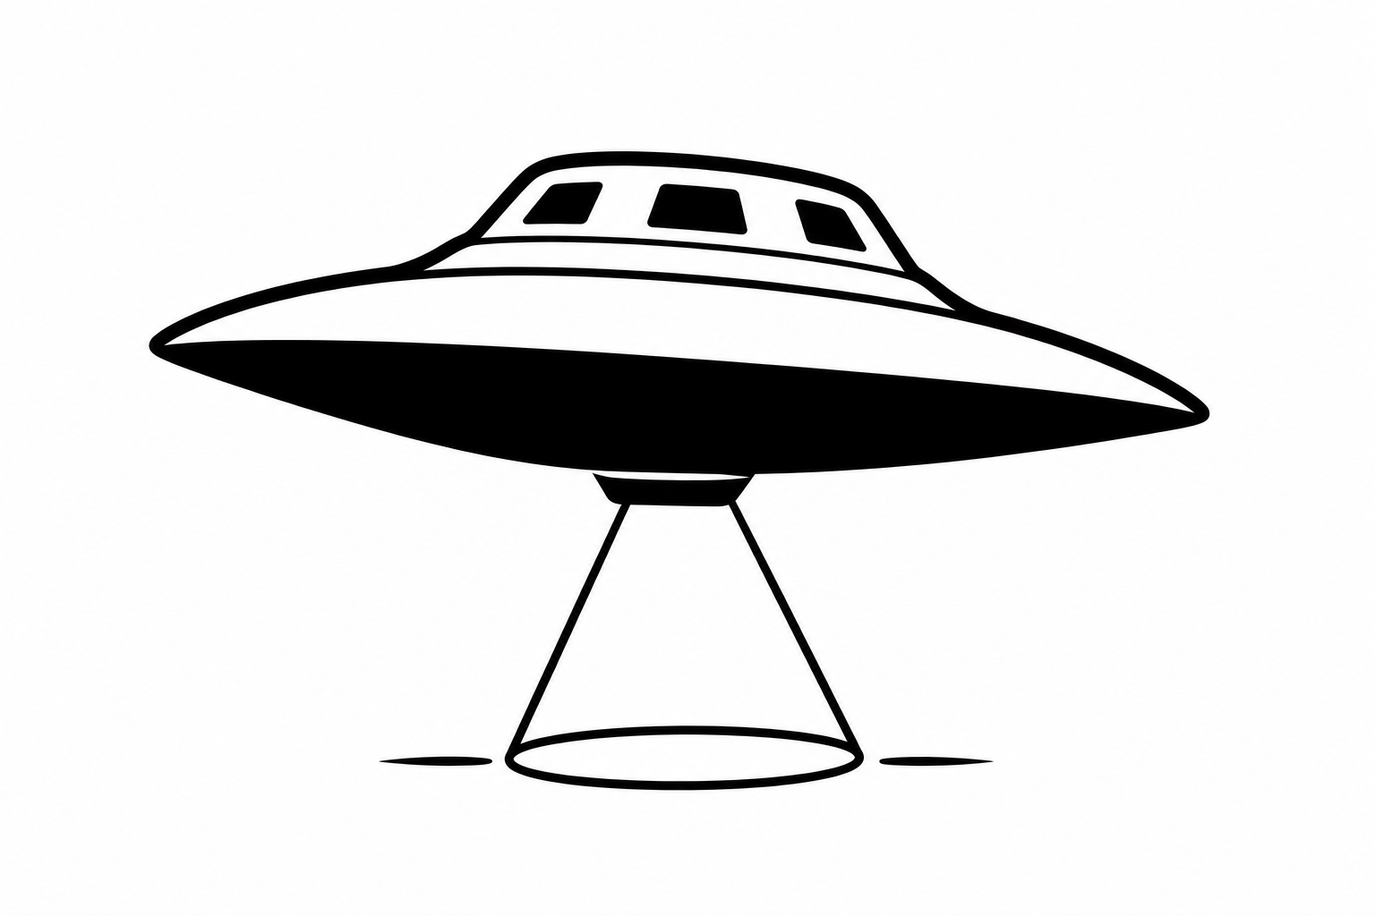
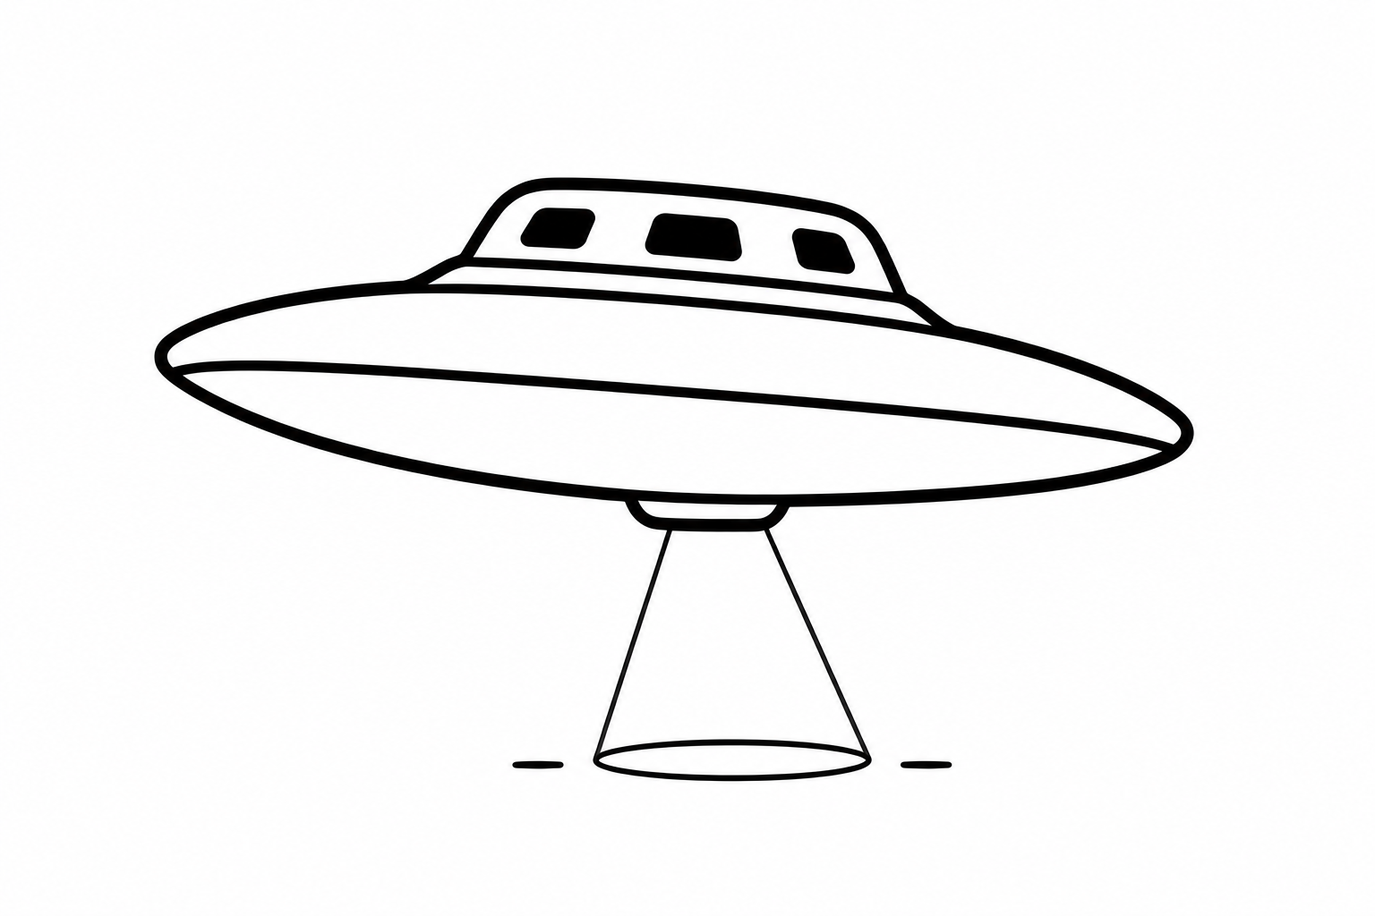
Lighten empty-state illustration with softer contours

Changed region(s): [[0.0938, 0.1562, 0.875, 0.875]]

diff --git a/uap-lab/static/label-videos.html b/uap-lab/static/label-videos.html
@@ -1,6 +1,6 @@
 <!doctype html><html lang="en"><head><meta charset="utf-8"><meta name="viewport" content="width=device-width,initial-scale=1"><title>Review detections · Field Station</title><link rel="stylesheet" href="/style.css"><link rel="stylesheet" href="/app-shell.css?v=10"><script src="/app-shell.js?v=12" defer></script><style>
 main{max-width:1500px;margin:auto;padding:12px 24px}.queue-toolbar{display:flex;justify-content:space-between;align-items:center;gap:12px;margin:0 0 12px;font-size:13px}.queue-toolbar p{margin:0;color:var(--muted)}#detectionQueue{columns:260px;column-gap:0;line-height:0}.detection-card{position:relative;break-inside:avoid;display:block;overflow:hidden;margin:0;background:#05090c}.detection-image{display:block;width:100%;padding:0;border:0;border-radius:0;background:transparent}.detection-image img{display:block;width:100%;height:auto;aspect-ratio:auto 1 / 1;image-rendering:auto}.category-actions{position:absolute;inset:0;display:flex;flex-direction:column;justify-content:flex-start;background:linear-gradient(#10182033,#101820f5 45%);padding:10px;line-height:1.3;opacity:0;visibility:hidden;transition:opacity .12s;overflow:auto}.detection-card:hover .category-actions,.detection-card:focus-within .category-actions,.detection-card.controls-open .category-actions{opacity:1;visibility:visible}.category-grid{flex-shrink:0;display:grid;grid-template-columns:repeat(3,minmax(0,1fr));gap:4px}.category-grid button{font:600 11px var(--app-font);padding:4px 3px;margin:0;border:1px solid #71878c;border-radius:4px;background:#15232ce8;color:#fff;min-height:28px;overflow-wrap:anywhere}.category-grid button:hover,.category-grid button:focus-visible{background:#315748;outline:2px solid #b8f4dd;outline-offset:0}.review-actions{display:flex;align-items:center;gap:8px;margin-top:8px;font-size:12px}.review-actions a,.review-actions button{flex:1;text-align:center;font:inherit;padding:4px 4px;background:#101820;color:#fff;border:1px solid #71878c;border-radius:4px;text-decoration:none}.queue-error{color:#ffb6aa;font-size:12px;line-height:1.4;margin:6px 0 0}.queue-toast{position:fixed;bottom:20px;left:50%;transform:translateX(-50%);z-index:1001;background:#15232c;color:#fff;border:1px solid #71878c;border-radius:8px;padding:12px 16px;display:flex;gap:16px;align-items:center;max-width:94vw;line-height:1.4}.queue-toast[hidden]{display:none}#moreDetections{margin:16px 0}#queueFrame{width:min(1200px,96vw);background:#101820;color:#fff;border:1px solid #71878c;border-radius:8px;max-height:92dvh}#queueFrame img{max-width:100%;max-height:70dvh;object-fit:contain;display:block;margin:12px auto}#queueFrame::backdrop{background:#000b}.frame-actions{display:flex;justify-content:space-between;gap:16px;align-items:center}@media(max-width:600px){main{padding:8px 12px}.category-grid{grid-template-columns:repeat(2,minmax(0,1fr))}.category-grid button{min-height:28px}.category-actions{justify-content:flex-start}.queue-toolbar{font-size:12px}#detectionQueue{columns:2}.category-actions{padding:6px}}@media(hover:none) and (any-hover:none){.detection-card .category-actions{position:relative;inset:auto;opacity:1;visibility:visible;background:var(--panel,#101820);padding:10px}.category-grid button,.review-actions a,.review-actions button{min-height:36px}}
 #queueFilters{display:flex;gap:8px;margin:0 0 8px;overflow-x:auto;scrollbar-width:none}#queueFilters::-webkit-scrollbar{display:none}#queueFilters a{font-size:13px;text-decoration:none;color:inherit;border-bottom:2px solid transparent;padding:2px 12px 1rem;white-space:nowrap}#queueFilters [aria-current="page"]{font-weight:700;border-bottom-color:var(--accent)}#detectionQueue{display:grid;grid-template-columns:repeat(auto-fill,minmax(min(240px,100%),320px));gap:0;columns:auto}.detection-card{align-self:start}.detection-image{aspect-ratio:auto;width:100%;height:auto;overflow:hidden}.detection-image img{width:100%;height:auto;aspect-ratio:auto;object-fit:contain}@media(max-width:600px){#detectionQueue{grid-template-columns:repeat(2,minmax(0,1fr));columns:auto}}.detection-card.selected{outline:3px solid var(--accent);outline-offset:-3px}.frame-select{position:absolute;right:8px;bottom:8px;z-index:2;width:22px;height:22px;cursor:pointer;accent-color:var(--accent)}.bulk-review{position:fixed;left:50%;bottom:max(12px,env(safe-area-inset-bottom));transform:translateX(-50%);width:max-content;max-width:calc(100vw - 24px);max-height:calc(100dvh - 120px);overflow:auto;z-index:1001;border-radius:8px;box-shadow:0 8px 32px #0005;display:flex;align-items:center;flex-wrap:wrap;gap:12px;padding:12px;background:var(--bg,#101820);color:var(--text,inherit);border:1px solid var(--accent);line-height:1.4}.bulk-review[hidden]{display:none}main:has(.bulk-review:not([hidden])){padding-bottom:calc(var(--bulk-review-height,180px) + 32px)}#bulkCategories{display:flex;gap:8px;flex-wrap:wrap}.selection-help{font-size:12px;color:var(--muted)}.detection-card{user-select:none}
-#queueToast{pointer-events:none}#objectViews{display:flex;overflow-x:auto;gap:8px;margin-bottom:12px}#objectViews button{white-space:nowrap;background:transparent;color:inherit;border:0;border-bottom:2px solid transparent;border-radius:0}#objectViews button[aria-pressed="true"]{border-bottom-color:var(--accent);font-weight:700}.object-label{position:absolute;top:0;left:0;padding:6px 8px;background:var(--panel);color:var(--ink);font-size:11px;line-height:1.3;pointer-events:none}.category-actions{padding-top:42px}</style><link rel="stylesheet" href="/review-filters.css?v=1"></head><body><main><p id="queueStatus" hidden></p><nav id="objectViews" class="category-tabs" aria-label="Detection views"></nav><div id="bulkReview" class="bulk-review" role="region" aria-label="Classify selected frames" hidden><span id="selectionCount" role="status"></span><div id="bulkCategories"></div><button id="selectAll" type="button">Select all loaded</button><button id="clearSelection" type="button">Clear selection</button></div><div id="detectionQueue"></div><button id="moreDetections" hidden>Load 100 more</button><p id="queueEmpty" hidden><svg class="review-empty-ufo" aria-hidden="true" focusable="false" xmlns="http://www.w3.org/2000/svg" viewBox="120 120 1280 810" version="1.1">
-	<path d="M 658.500 170.052 C 629.041 171.977, 611.658 175.456, 598 182.161 C 587.907 187.116, 577.182 197.345, 551.513 226.500 C 525.472 256.078, 522.831 258.579, 512.500 263.437 C 507.550 265.765, 497.556 271.130, 490.291 275.359 C 475.837 283.772, 468.895 287.094, 456 291.772 C 443.316 296.373, 441.554 296.749, 415 300.536 C 324.128 313.494, 250.615 333.269, 200.500 358.234 C 170.913 372.973, 161.852 382.962, 168.985 392.979 C 171.956 397.152, 186.671 404.185, 211 413.061 C 232.866 421.039, 291.899 441.050, 311 446.960 C 317.875 449.087, 332.950 453.754, 344.500 457.330 C 465.986 494.942, 556.929 515.534, 636.500 523.445 C 666.351 526.413, 681.091 527.035, 781 529.548 C 801.228 530.057, 834.770 532.436, 835.767 533.433 C 837.191 534.858, 799.424 536.970, 772.500 536.972 C 724.530 536.975, 683.906 534.616, 670.038 531.024 C 665.934 529.960, 662.486 529.183, 662.377 529.295 C 661.717 529.972, 679.444 557.893, 681.681 559.699 C 683.179 560.908, 686.592 562.422, 689.265 563.064 C 692.190 563.765, 693.933 564.682, 693.641 565.365 C 693.374 565.989, 687.231 579.100, 679.991 594.500 C 666.251 623.725, 598.502 770.321, 576.638 818.138 C 567.960 837.116, 564 846.897, 564 849.353 C 564 871.358, 645.344 884.208, 775 882.684 C 894.642 881.278, 964.967 867.976, 964.996 846.745 C 964.998 845.157, 956.475 826.940, 944.876 803.745 C 923.109 760.212, 841.482 598.713, 829.199 574.876 L 821.663 560.252 830.683 547.876 C 835.644 541.069, 840.465 534.310, 841.397 532.857 L 843.090 530.213 861.795 529.576 C 997.535 524.949, 1107.565 513.901, 1252 490.398 C 1342.954 475.597, 1351 473.282, 1351 461.915 C 1351 455.689, 1342.802 447.388, 1325 435.587 C 1278.910 405.034, 1200.977 373.403, 1116.508 350.966 C 1092.140 344.493, 1076.467 336.130, 1050 315.479 C 1044.225 310.973, 1036.347 305.270, 1032.494 302.806 L 1025.487 298.325 1000.893 261.413 C 970.596 215.941, 967.251 212.403, 946.144 203.502 C 913.993 189.942, 832.646 176.180, 754 170.996 C 731.861 169.537, 674.989 168.975, 658.500 170.052 M 661.500 185.988 C 632.667 187.723, 615.224 190.851, 604.580 196.196 C 596.109 200.450, 570.894 226.703, 539.090 264.383 C 537.554 266.203, 537.688 266.244, 543.041 265.588 C 555.306 264.084, 611.402 263.279, 647.342 264.091 C 763.675 266.718, 893.410 280.031, 988.415 299.091 C 999.369 301.289, 1008.706 303.319, 1009.165 303.602 C 1011.058 304.772, 1009.036 301.544, 987.563 269.117 C 962.088 230.646, 959.103 227.192, 945.670 220.629 C 916.980 206.613, 838.897 192.844, 758 187.538 C 729.714 185.683, 679.882 184.882, 661.500 185.988 M 645 204.071 C 626.310 204.939, 619.476 205.675, 616.796 207.109 C 613.868 208.676, 583.966 244.972, 584.015 246.900 C 584.102 250.290, 585.364 250.408, 619.176 250.182 C 649.249 249.982, 652.650 249.792, 654.188 248.230 C 656.671 245.708, 673 210.349, 673 207.494 C 673 204.473, 670.310 202.953, 665.316 203.152 C 663.217 203.236, 654.075 203.649, 645 204.071 M 739.156 207.750 C 736.543 209.964, 722.713 247.520, 723.545 250.142 C 724.547 253.300, 726.867 253.778, 749.023 255.397 C 760.836 256.260, 784.136 258.174, 800.803 259.652 L 831.107 262.338 833.179 260.266 L 835.251 258.194 830.419 237.413 C 827.076 223.030, 824.959 215.913, 823.544 214.295 C 821.292 211.720, 813.768 210.716, 772.500 207.487 C 747.200 205.507, 741.752 205.550, 739.156 207.750 M 889.026 224.951 C 888.082 226.715, 893.250 245.027, 900.298 264.893 C 902.253 270.402, 905.154 271.743, 920 273.997 C 927.425 275.124, 939.859 277.196, 947.630 278.601 C 963.067 281.392, 967.306 281.434, 967.805 278.800 C 968.140 277.031, 946.359 239.131, 942.825 235.334 C 940.514 232.851, 931.163 230.124, 910.500 225.908 C 893.578 222.455, 890.437 222.315, 889.026 224.951 M 555.500 272.044 C 527.185 273.824, 521.786 275.195, 505.960 284.621 C 500.757 287.720, 491.550 292.929, 485.500 296.196 L 474.500 302.135 482.500 301.559 C 511.113 299.498, 538.654 298.727, 582.500 298.761 C 730.181 298.874, 930.807 318.315, 1053.976 344.447 C 1060.287 345.786, 1065.572 346.761, 1065.720 346.614 C 1065.867 346.466, 1062.942 344.263, 1059.218 341.719 C 1055.494 339.175, 1047.284 333.002, 1040.974 328.002 C 1026.536 316.562, 1021.029 313.885, 1003 309.538 C 938.120 293.894, 822.532 279.716, 704.500 272.924 C 680.750 271.558, 573.328 270.923, 555.500 272.044 M 532.500 308.667 C 438.694 311.770, 354.476 323.634, 284.983 343.535 C 245.941 354.715, 207.232 370.426, 189 382.490 C 183.584 386.074, 183.554 386.121, 187 385.584 C 215.658 381.121, 312.094 378.901, 391 380.888 C 498.593 383.596, 606.842 389.147, 745 399.040 C 1039.113 420.101, 1249.531 441.936, 1323.892 459.110 C 1328.508 460.176, 1332.468 460.865, 1332.693 460.641 C 1334.481 458.852, 1300.822 438.420, 1276.500 426.530 C 1208.173 393.128, 1125.726 367.252, 1031.500 349.635 C 879.766 321.265, 670.653 304.097, 532.500 308.667 M 696.288 581.128 C 691.832 590.683, 684.718 606.150, 680.478 615.500 C 676.239 624.850, 666.351 646.450, 658.504 663.500 C 650.657 680.550, 639.624 704.625, 633.986 717 C 628.349 729.375, 618.333 751.200, 611.729 765.500 C 590.691 811.056, 581.971 830.304, 582.245 830.578 C 582.391 830.725, 586.892 829.575, 592.246 828.024 C 645.467 812.602, 772.830 806.855, 868 815.582 C 897.150 818.254, 930.154 823.673, 941.359 827.627 C 943.533 828.394, 945.497 828.837, 945.722 828.611 C 945.948 828.386, 916.376 768.799, 880.008 696.197 L 813.884 564.193 810.192 565.227 C 806.442 566.277, 729.110 565.585, 712.445 564.353 L 704.391 563.757 696.288 581.128 M 722.654 822.072 C 648.446 825.068, 587.465 834.699, 576.304 845.184 C 573.277 848.028, 573.396 849.314, 576.967 852.318 C 587.507 861.187, 636.844 868.874, 703.927 872.098 C 731.433 873.420, 814.608 872.770, 837.500 871.054 C 894.804 866.758, 932.668 860.332, 948.615 852.196 C 956.258 848.297, 956.522 845.536, 949.633 841.564 C 925.106 827.422, 817.979 818.222, 722.654 822.072 M 468.500 846.601 C 449.341 848.009, 426.281 850.316, 425.162 850.936 C 423.655 851.772, 440.733 853.486, 466.917 855.127 C 486.532 856.356, 538.257 855.698, 544.372 854.141 C 551.889 852.228, 551.656 849.514, 543.830 847.828 C 539.525 846.900, 478.050 845.899, 468.500 846.601 M 1003.500 846.585 C 1001.300 846.803, 996.276 847.246, 992.335 847.568 C 983.878 848.260, 980.618 849.981, 983.061 852.465 C 987.552 857.029, 1051.407 857.259, 1097 852.877 C 1112.750 851.363, 1110.781 850.611, 1085.500 848.486 C 1067.697 846.989, 1012.359 845.706, 1003.500 846.585" stroke="none" fill="currentColor" fill-rule="evenodd"/>
+#queueToast{pointer-events:none}#objectViews{display:flex;overflow-x:auto;gap:8px;margin-bottom:12px}#objectViews button{white-space:nowrap;background:transparent;color:inherit;border:0;border-bottom:2px solid transparent;border-radius:0}#objectViews button[aria-pressed="true"]{border-bottom-color:var(--accent);font-weight:700}.object-label{position:absolute;top:0;left:0;padding:6px 8px;background:var(--panel);color:var(--ink);font-size:11px;line-height:1.3;pointer-events:none}.category-actions{padding-top:42px}</style><link rel="stylesheet" href="/review-filters.css?v=1"></head><body><main><p id="queueStatus" hidden></p><nav id="objectViews" class="category-tabs" aria-label="Detection views"></nav><div id="bulkReview" class="bulk-review" role="region" aria-label="Classify selected frames" hidden><span id="selectionCount" role="status"></span><div id="bulkCategories"></div><button id="selectAll" type="button">Select all loaded</button><button id="clearSelection" type="button">Clear selection</button></div><div id="detectionQueue"></div><button id="moreDetections" hidden>Load 100 more</button><p id="queueEmpty" hidden><svg class="review-empty-ufo" aria-hidden="true" focusable="false" xmlns="http://www.w3.org/2000/svg" viewBox="120 150 1260 770" version="1.1">
+	<path d="M 599.831 200.023 C 587.656 202.078, 574.359 207.717, 564.479 215.015 C 553.592 223.058, 542.201 238.245, 521.919 271.758 L 514.500 284.016 506.503 287.116 C 502.105 288.820, 490.855 294.422, 481.503 299.563 C 459.022 311.923, 454.425 313.566, 440 314.401 C 309.468 321.956, 189.922 355.340, 174.890 388.435 C 172.175 394.414, 172.388 404.157, 175.372 410.500 C 185.174 431.329, 249.231 465.952, 327 492.456 C 401.152 517.727, 505.490 539.497, 614.539 552.449 C 643.022 555.832, 684.188 559.997, 689.310 560.014 C 696.464 560.037, 697.869 560.848, 700.542 566.496 C 707.940 582.134, 719.008 590.019, 736.389 592.031 C 740.727 592.533, 744.431 593.098, 744.619 593.286 C 744.967 593.634, 740.948 606.165, 707.189 710 C 696.728 742.175, 684.496 779.975, 680.006 794 C 675.516 808.025, 669.631 826.348, 666.928 834.717 C 662.810 847.469, 662.193 850.330, 663.124 852.372 C 669.179 865.662, 738.161 873.891, 833.500 872.697 C 903.102 871.825, 947.539 866.883, 965.630 858.002 C 975.379 853.216, 975.521 851.982, 968.192 835.791 C 960.092 817.897, 946.019 786.547, 933.271 758 C 921.641 731.956, 912.503 711.513, 880.566 640.085 C 864.053 603.155, 859.224 591.462, 860.209 590.798 C 860.919 590.319, 862.631 589.312, 864.014 588.560 C 867.623 586.597, 876.169 577.288, 879.349 571.854 L 882.069 567.207 897.284 566.629 C 905.653 566.311, 923.975 565.799, 938 565.492 C 1144.824 560.963, 1293.191 537.369, 1324.357 504.050 C 1333.380 494.404, 1335.738 483.353, 1330.923 473.283 C 1318.944 448.226, 1241.527 409.993, 1151.148 384.500 C 1132.862 379.342, 1091.022 369.036, 1078 366.483 C 1064.332 363.802, 1059.442 361.084, 1038.500 344.526 C 1032.450 339.743, 1024.537 334.091, 1020.917 331.968 C 1017.296 329.844, 1013.871 327.520, 1013.307 326.803 C 1012.743 326.086, 1008.577 316.950, 1004.051 306.500 C 994.642 284.777, 984.586 264.929, 979.433 257.909 C 966.700 240.562, 947.350 230.040, 918 224.501 C 858.952 213.357, 771.952 204.070, 688.500 200.003 C 665.154 198.865, 606.616 198.878, 599.831 200.023 M 609.257 213 C 585.163 215.087, 569.892 224.386, 554.643 246.259 C 548.336 255.305, 530.356 283.909, 529.382 286.446 C 529.032 287.359, 531.892 287.718, 540.707 287.866 C 608.401 289.003, 776.299 301.438, 887.061 313.518 C 929.938 318.194, 977.157 323.904, 990.877 326.071 C 994.385 326.626, 997.364 326.949, 997.498 326.790 C 998.021 326.167, 977.781 281.215, 973.762 274.074 C 964.408 257.452, 948.853 245.999, 929 241.114 C 893.059 232.271, 805.663 221.576, 724 216.028 C 684.295 213.331, 623.857 211.736, 609.257 213 M 605.637 233.472 C 600.043 235.456, 596.799 239.026, 588.859 251.937 C 581.201 264.389, 580.167 268.310, 583.553 272.068 C 586.641 275.496, 588.066 275.711, 616.666 277.058 C 645.756 278.428, 647.557 278.254, 651.820 273.670 C 654.169 271.143, 665 246.737, 665 243.970 C 665 238.197, 660.414 234.118, 653.205 233.477 C 638.543 232.174, 609.306 232.171, 605.637 233.472 M 738.462 239.034 C 733.180 240.622, 730.268 244.882, 725.503 257.992 C 720.122 272.797, 719.822 276.976, 723.850 281.003 C 727.371 284.525, 726.865 284.443, 764 287.528 C 780.775 288.921, 800.038 290.569, 806.807 291.189 C 820.966 292.486, 824.628 291.554, 827.548 285.908 C 829.084 282.936, 829.052 281.959, 827.028 270.120 C 824.307 254.207, 823.584 251.931, 820.227 248.729 C 815.931 244.630, 813.999 244.274, 781.348 241.558 C 764.382 240.147, 748.475 238.796, 746 238.557 C 743.525 238.317, 740.133 238.532, 738.462 239.034 M 890.357 255.992 C 887.406 257.183, 885 260.891, 885 264.249 C 885 268.594, 890.982 291.441, 892.980 294.726 C 895.866 299.473, 900.256 300.785, 922.265 303.483 C 948.101 306.650, 949.438 306.653, 952.545 303.545 C 956.111 299.980, 955.677 296.875, 949.609 282.531 C 940.850 261.823, 940.334 261.464, 913.748 257.588 C 894.444 254.774, 893.530 254.711, 890.357 255.992 M 512 300.277 C 506.233 302.251, 479 316.492, 479 317.533 C 479 317.758, 485.413 317.673, 493.250 317.344 C 519.021 316.265, 615.493 320.167, 683.500 325.039 C 830.344 335.560, 988.118 352.644, 1034.883 363.089 C 1037.293 363.627, 1039.436 363.897, 1039.645 363.689 C 1040.229 363.105, 1019.456 347.129, 1013.267 343.402 C 1006.678 339.434, 1004.052 338.868, 974.500 335.053 C 848.634 318.804, 694.714 305.664, 558.092 299.506 C 516.934 297.651, 519.812 297.603, 512 300.277 M 442 329.101 C 348.824 334.672, 268.626 350.586, 217.500 373.649 C 188.853 386.571, 180.823 397.228, 191.162 408.604 C 193.073 410.706, 193.077 410.707, 200.787 408.866 C 232.240 401.355, 307.957 401.409, 432.500 409.033 C 486.606 412.345, 596.486 419.996, 662.500 425.049 C 1071.996 456.392, 1229.730 473.299, 1299.358 493.314 C 1311.087 496.685, 1311.125 496.689, 1313.579 494.759 C 1321.850 488.254, 1320.554 478.830, 1310.200 470.173 C 1266.549 433.676, 1153.645 393.991, 1036.818 374.082 C 878.746 347.143, 552.657 322.484, 442 329.101 M 246.500 414.984 C 230.499 415.679, 206.296 418.371, 205.075 419.592 C 203.708 420.958, 225.624 433.739, 249.500 445.500 C 364.183 501.993, 556.438 540.987, 770.500 551.172 C 803.602 552.747, 908.543 552.737, 950.500 551.155 C 1124.079 544.609, 1229.370 531.273, 1289 508.279 L 1298.500 504.616 1292.500 502.756 C 1277.670 498.158, 1224.997 489.107, 1178 483.080 C 1098.490 472.884, 961.117 459.753, 816.500 448.525 C 784.600 446.048, 753.100 443.569, 746.500 443.016 C 700.034 439.124, 571.028 429.665, 474 423.035 C 376.903 416.400, 287.103 413.222, 246.500 414.984 M 715.102 563.979 C 718.293 569.675, 724.883 575.344, 730.191 576.960 C 736.638 578.923, 761.746 579.892, 807.601 579.949 C 850.206 580.002, 852.458 579.814, 858.339 575.716 C 861.047 573.828, 867 566.468, 867 565.007 C 867 564.625, 845.737 564.016, 819.750 563.653 C 776.888 563.054, 761.354 562.521, 724.602 560.389 L 712.703 559.699 715.102 563.979 M 736.890 636.500 C 729.173 660.150, 719.101 690.975, 714.509 705 C 709.916 719.025, 698.411 754.575, 688.942 784 C 679.474 813.425, 671.287 838.353, 670.750 839.396 C 669.891 841.064, 670.058 841.209, 672.137 840.600 C 698.638 832.831, 732.557 828.788, 785.591 827.076 C 815.702 826.104, 866.299 827.007, 891.500 828.967 C 920.693 831.238, 956.061 836.840, 962.345 840.189 C 964.923 841.563, 964.810 841.270, 950.335 809.182 C 943.466 793.957, 934.319 773.625, 930.006 764 C 925.694 754.375, 913.190 726.475, 902.221 702 C 891.252 677.525, 875.878 643.100, 868.057 625.500 L 853.837 593.500 802.379 593.500 L 750.921 593.500 736.890 636.500 M 774.364 834.019 C 717.570 836.238, 669 843.643, 669 850.082 C 669 851.721, 677.226 854.921, 686.739 856.982 C 753.037 871.344, 928.688 868.660, 962.750 852.763 C 968.087 850.273, 968.076 849.363, 962.681 846.977 C 940.538 837.182, 851.030 831.023, 774.364 834.019 M 576.323 851.696 C 572.344 852.471, 571.229 854.957, 573.893 857.115 C 576.033 858.847, 578.207 859, 600.677 859 C 615.622 859, 625.884 858.597, 627.066 857.965 C 629.860 856.470, 629.509 853.144, 626.435 851.975 C 623.984 851.043, 580.909 850.803, 576.323 851.696 M 1008.250 852.031 C 1005.131 853.285, 1005.315 856.789, 1008.565 858.025 C 1009.976 858.561, 1021.647 859, 1034.500 859 C 1058.970 859, 1063 858.434, 1063 855 C 1063 853.720, 1062.037 852.584, 1060.435 851.975 C 1057.218 850.752, 1011.310 850.801, 1008.250 852.031" stroke="none" fill="currentColor" fill-rule="evenodd"/>
 </svg><span>No objects in this view.</span></p></main><div id="queueToast" class="queue-toast" role="status" hidden><span id="queueSaved"></span></div><dialog id="queueFrame" aria-label="Detected object in original frame"><div class="frame-actions"><a id="queueVideoLink">Review video</a><button id="closeQueueFrame">Close</button></div><div id="queueFrameStage" style="position:relative"><img id="queueFullFrame" alt="Original frame with the detected object boxed"><span id="queueFrameBox" hidden style="position:absolute;border:3px solid #ffdc55;box-sizing:border-box;pointer-events:none"></span></div><p>Choose a category on the card to save its label. Open the video to scrub, redraw boxes, or review additional objects.</p></dialog><script src="/review-filters.js?v=1"></script><script src="/detections.js?v=independent-filters-1"></script></body></html>

diff --git a/design/review-empty/README.md b/design/review-empty/README.md
@@ -1,8 +1,5 @@
 Generated with the built-in imagegen tool, then automatically traced with Potrace (threshold 128, turdSize 16, optTolerance 0.3). SVG uses currentColor; white areas are transparent. The app embeds the SVG inline.
 
-Latest generation prompts:
+Latest edit prompt:
 
-Design a genuinely sophisticated bespoke editorial spot illustration for a premium scientific observation application. Art direction: restrained Swiss editorial graphic design, exquisitely controlled curves, optical balance, confident variation between heavy silhouette and delicate supporting lines. NOT stock clipart, generic icon, toy, cartoon spaceship, or a technical diagram. Reference attached poster ONLY for the precise Bob Lazar Sport Model silhouette: low small flat-topped truncated cabin, three tiny dark trapezoid windows, graceful long shallow concave shoulders flowing to an extremely thin sharp wide elliptical rim, smooth shallow belly and ONE low central foot. The craft should feel sleek and graceful, not inflated. Compose a small hovering craft at upper left, angled slightly upward, projecting a subtle slanted searchlight outlined with two light strokes into an empty oval of ground lower right. Charming curious gesture, no anthropomorphic face. Use fewer better shapes: one beautifully sculpted black underside shadow, crisp white upper surface edged with a medium confident black contour, restrained fine inner seam. Avoid thick uniform outlines everywhere, stacked bands, extra concentric ellipses, bulky cockpit, heavy beam. Frame composition with generous intentional negative space, just one or two short ground marks. This should look commissioned from an excellent branding illustration studio: economical, distinctive, beautifully resolved. Black and white ONLY, pure white background; no gradients, grey, halftone, texture, typography, stars, question marks, landscapes or poster framing. One complete finished vector-style illustration, centered and compact, ready for tracing.
-
-Refinement:
-Refine this exact illustration for display at 240 pixels wide. Preserve its sleek accurate Sport Model saucer geometry and solid black underside. Make the whole composition compact: reduce the beam length by 55%, bring ground ellipse closer beneath craft, reduce ellipse width by 25%. Enlarge craft relative to total composition. Give craft a subtle 7-degree curious tilt. Increase the outer craft contour thickness roughly 2x, increase the beam and ellipse contour thickness roughly 3x so there are no hairlines at small size; craft contour remains heavier than beam. Keep one beautifully smooth black underside and small lower foot; do not add bands or details. Pure black on white, precise elegant curves, polished editorial brand illustration, not toy-like. No text, face, stars, texture or gradients. Center with modest even margins.
+Edit this illustration to feel friendly, calm and approachable, with attentive polished drawing rather than dramatic styling. Preserve Bob Lazar Sport Model broad low saucer, small flat-topped cabin, three small windows and single shallow underside step. Important changes: eliminate the large solid black underside wedge, instead use an airy white belly enclosed by a smooth rounded contour with only a small black accent at the rim. Soften the pointed tips with small controlled corner radii. Keep the cabin low, but gently round its corners and window corners. Use consistent generous medium-weight rounded black strokes, precise smooth curves and thoughtful spacing. Let the craft hover at a gentle curious 6-degree angle, searching an empty patch of ground slightly off to the right; beam starts naturally at the single bottom step, outline weight about half the craft outline, short beam ending in a small elliptical patch. Two tiny round-ended horizontal ground strokes, no sharp pointed marks. Composition compact, generous breathing room, friendly product illustration with professional finish. No face, eyes, smile, sparkles, question mark, extra decorations, dramatic shadows or aggressive pointed shapes. Pure black and white on white, no gray, gradients or texture. Do not enlarge the cockpit or make a toy. No text. One finished illustration.
